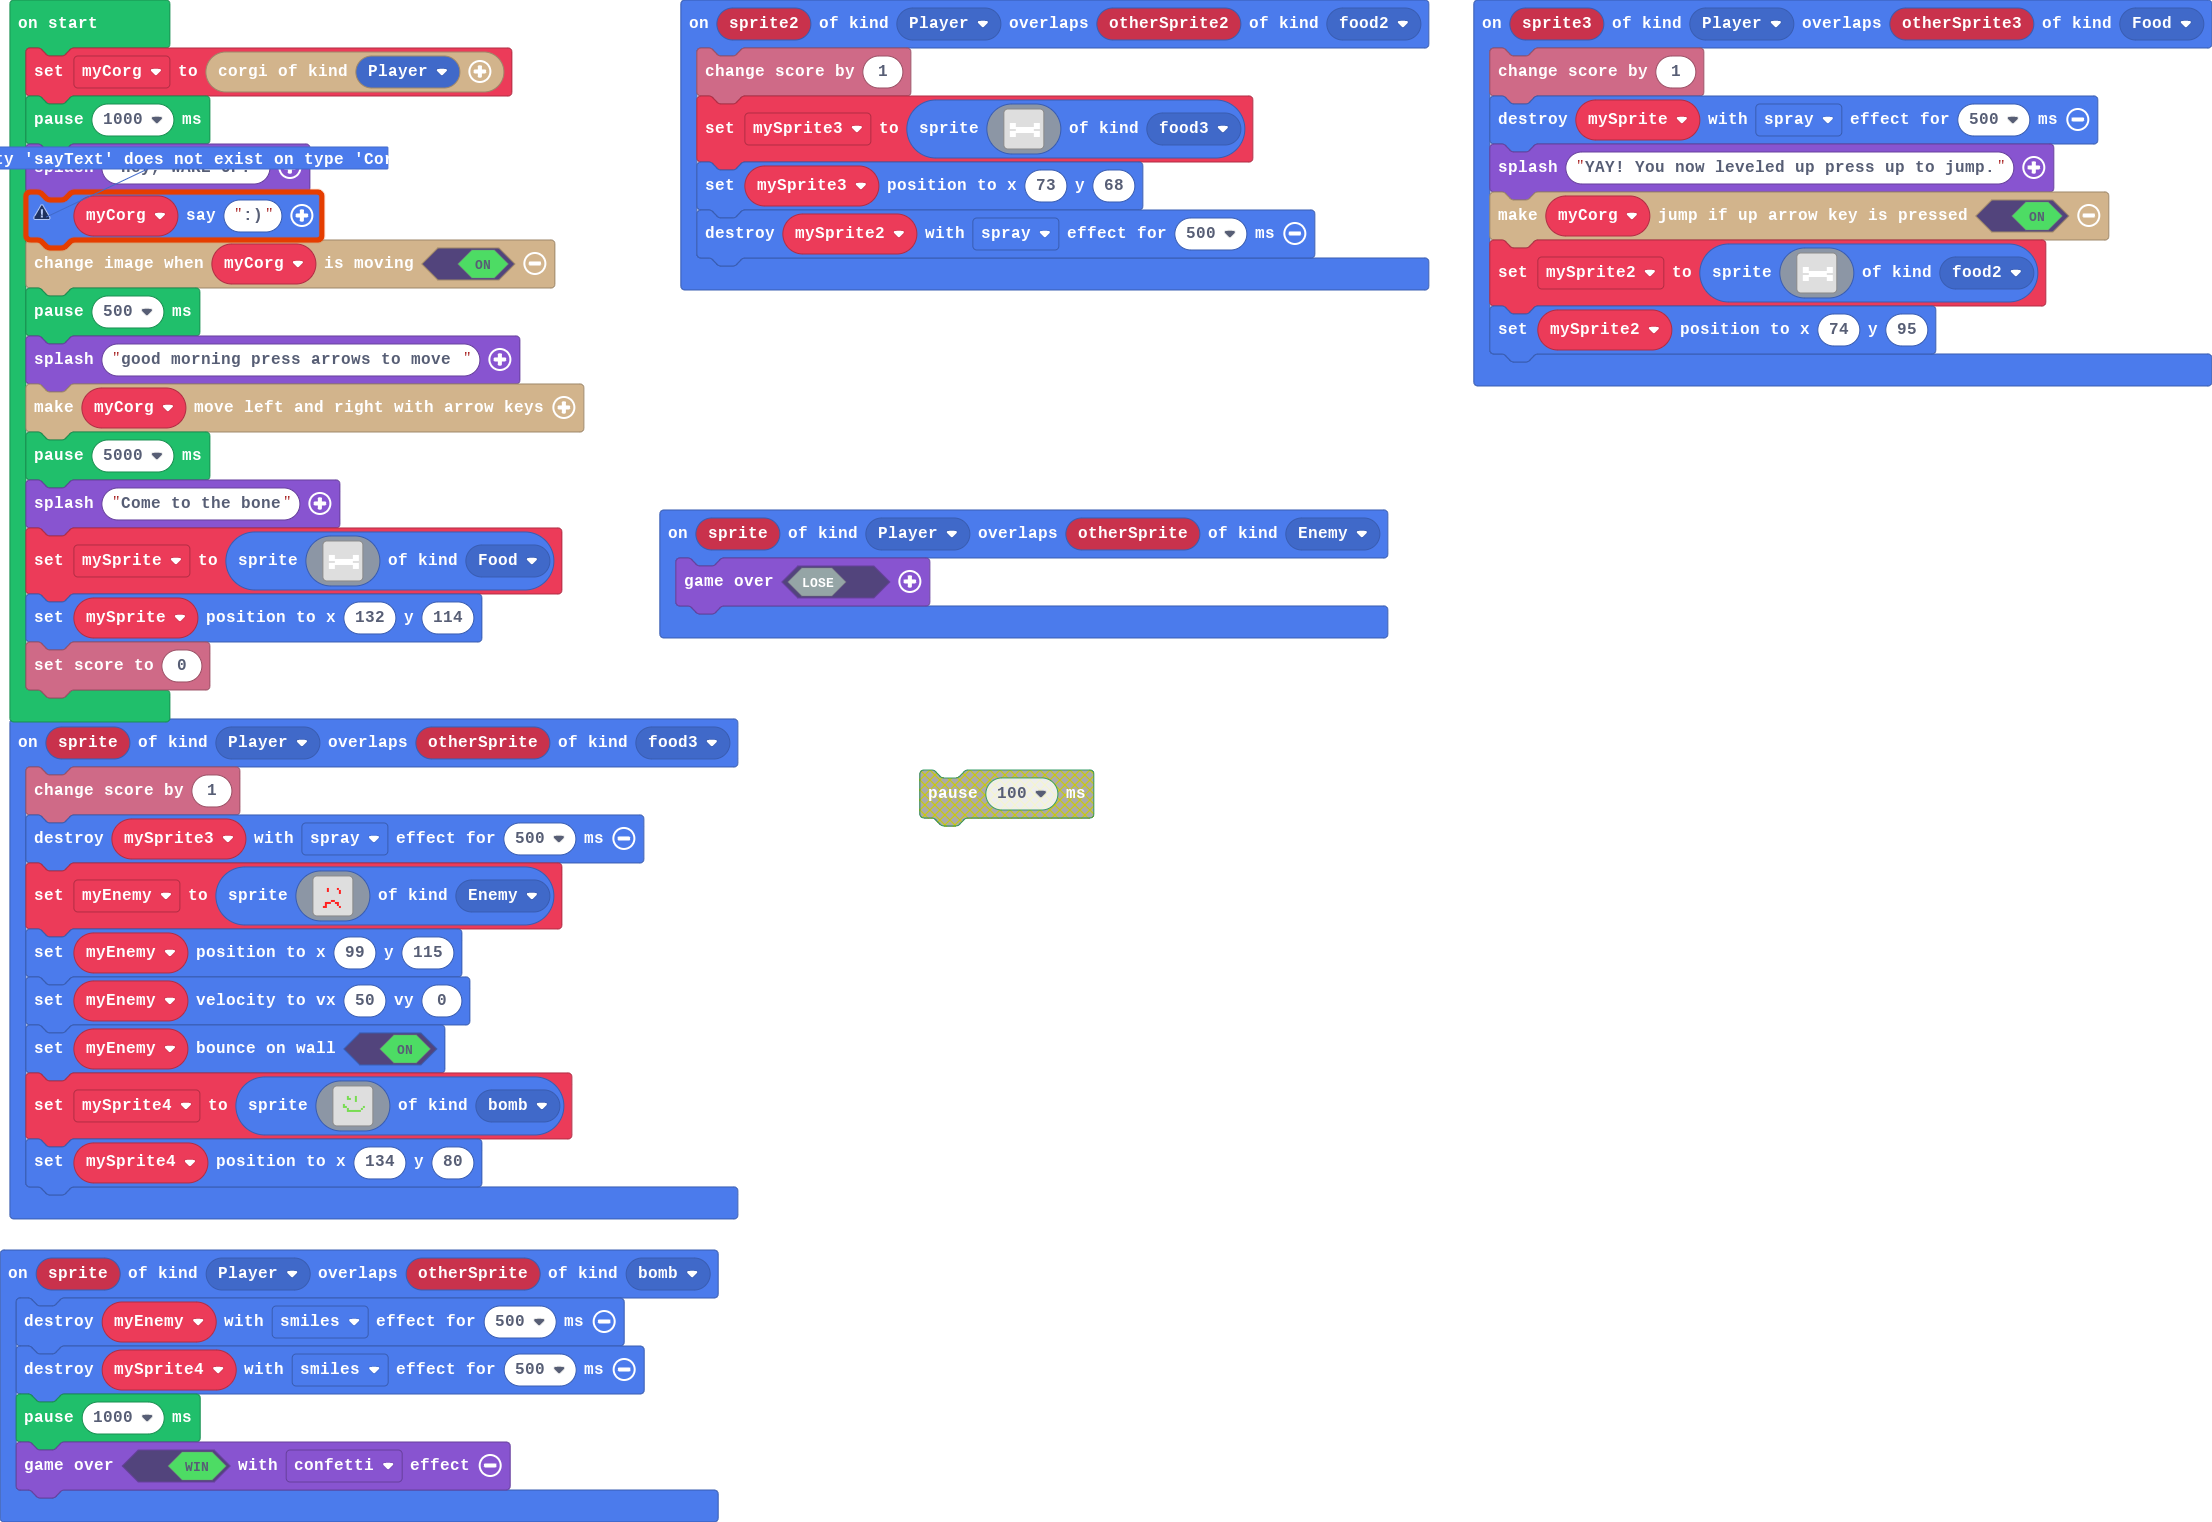
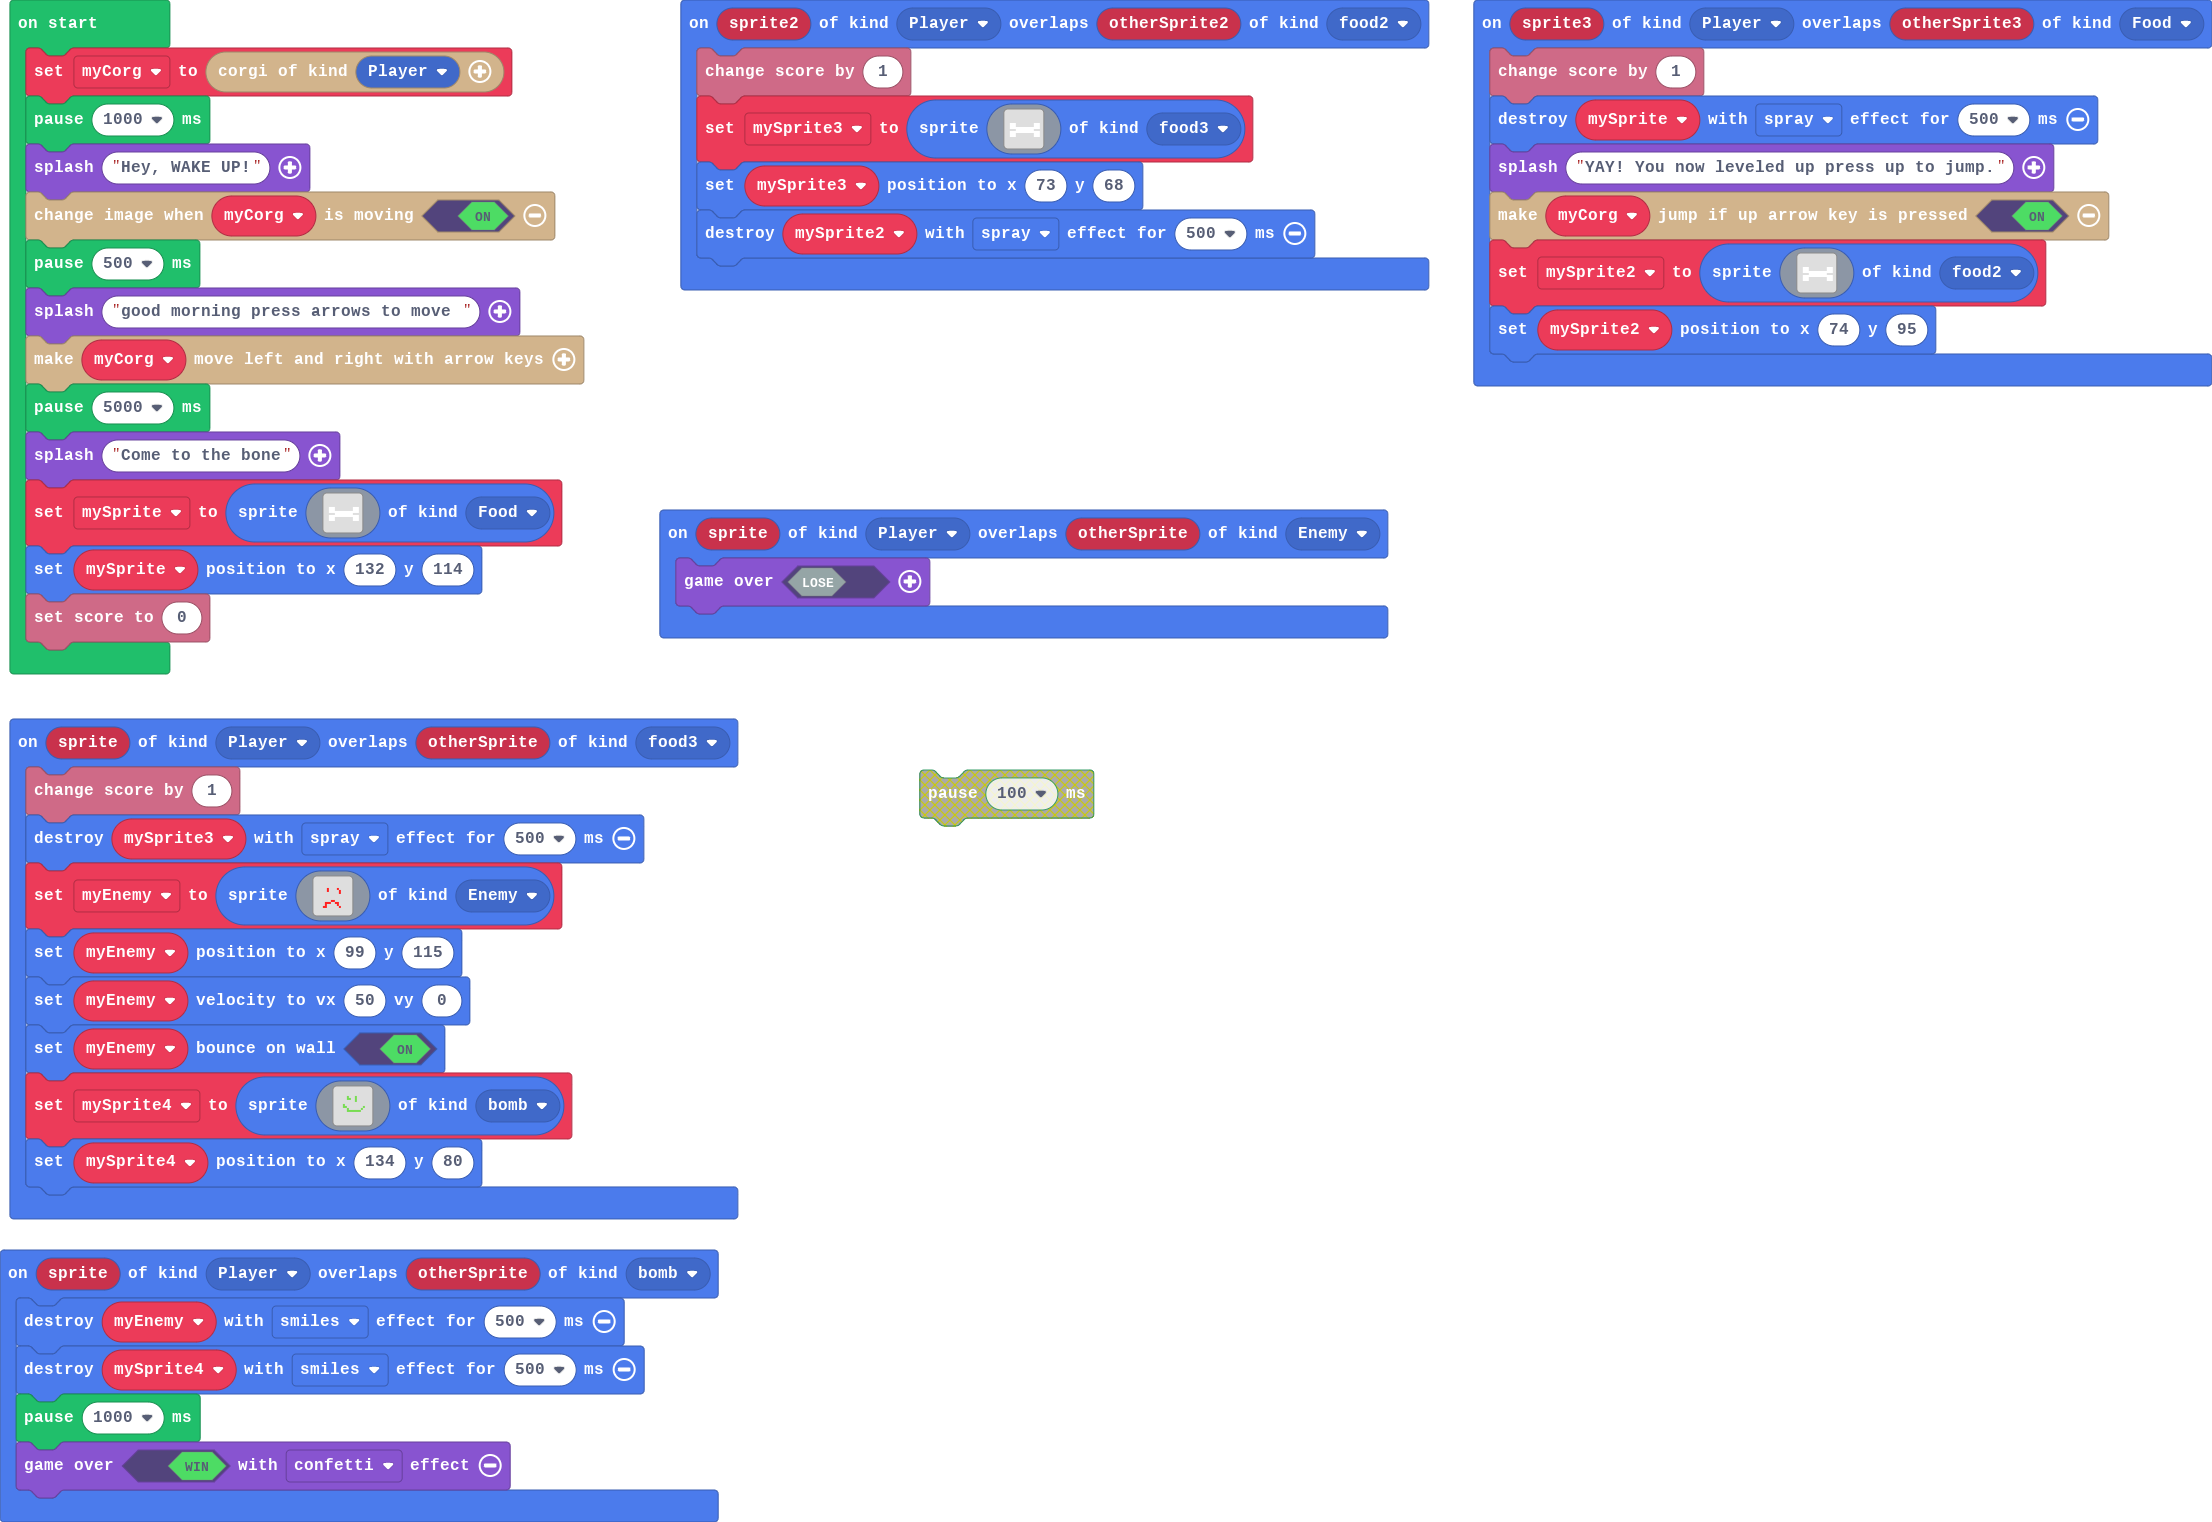
Update main.blocks, main.ts

Changed region(s): [[0.0, 0.0926, 0.2807, 0.4941]]

diff --git a/main.ts b/main.ts
@@ -113,7 +113,6 @@ let myCorg: Corgio = null
 myCorg = corgio.create(SpriteKind.Player)
 pause(1000)
 game.splash("Hey, WAKE UP!")
-myCorg.sayText(":)")
 myCorg.updateSprite(true)
 pause(500)
 game.splash("good morning press arrows to move ")
